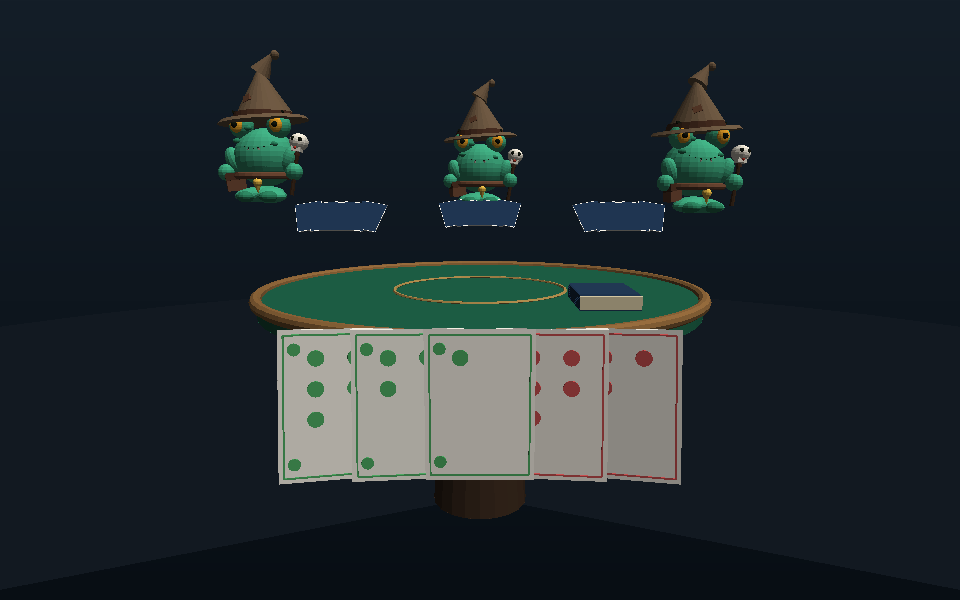
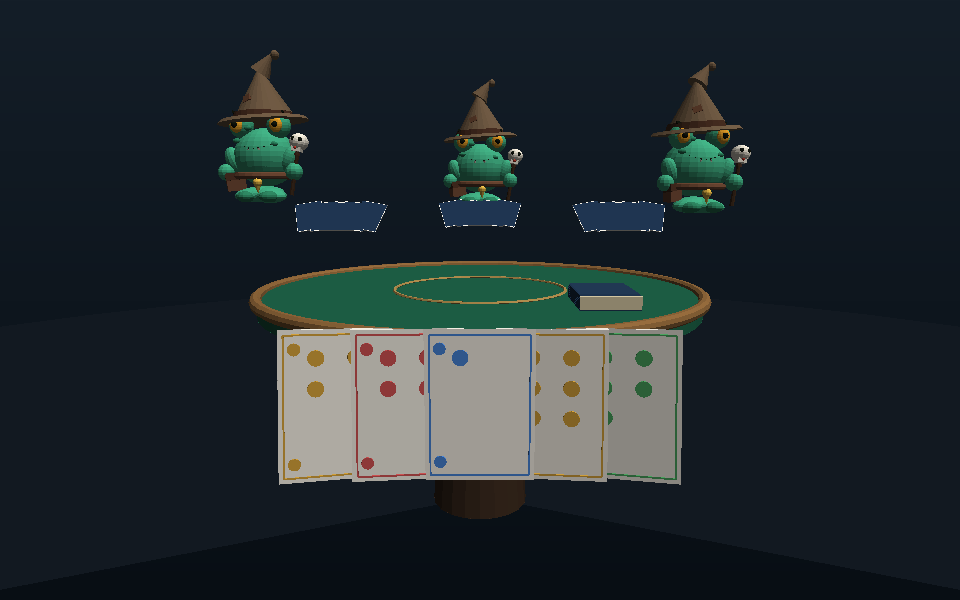
WebGL yoksa anlasilir uyari + yukleniyor katmani; onizleme araci mutlak yol kabul ediyor

diff --git a/game.js b/game.js
@@ -49,7 +49,25 @@ var SEAT_NAMES = ["Sen", "Mira", "Kara", "Tilki"];
 
 
 /* ------------------------------ sahne ------------------------------- */
-var renderer = new THREE.WebGLRenderer({ antialias: true, alpha: false });
+var GL_OK = true;
+var renderer;
+try {
+  renderer = new THREE.WebGLRenderer({ antialias: true, alpha: false });
+} catch (eRender) {
+  GL_OK = false;
+  renderer = null;
+}
+if (!renderer) {
+  /* WebGL yok: oyun mantığı çalışsın, ekranda uyarı gösterelim */
+  renderer = {
+    domElement: (typeof document !== "undefined" && document.createElement)
+      ? document.createElement("canvas")
+      : { style: {}, addEventListener: function () {} },
+    setPixelRatio: function () {},
+    setSize: function () {},
+    render: function () {}
+  };
+}
 renderer.setPixelRatio(Math.min(num(typeof devicePixelRatio === "number" ? devicePixelRatio : 1, 1), 2));
 renderer.setSize(num(typeof innerWidth === "number" ? innerWidth : 0, 1280), num(typeof innerHeight === "number" ? innerHeight : 0, 720));
 if (typeof document !== "undefined" && document && document.body && document.body.appendChild) {
@@ -999,6 +1017,14 @@ function boot() {
     renderer.domElement.addEventListener("pointerdown", onPointerDown);
     addEventListener("keydown", onKeyDown);
   }
+  if (!GL_OK) {
+    var uy = el("webgl-uyari");
+    if (uy) { uy.style.display = "block"; }
+    var m = el("msg");
+    if (m) m.textContent = "Tarayıcın WebGL açamadı — donanım hızlandırmayı açıp yenile.";
+  }
+  var yuk = el("yukleniyor");
+  if (yuk && yuk.style) yuk.style.display = "none";
   if (REAL_CANVAS) {
     start(2);
     show("how", true);

diff --git a/index.html b/index.html
@@ -62,6 +62,20 @@
   }
   #deckCount { position: fixed; left: 14px; bottom: 96px; font-size: 12px; color: var(--muted); }
 
+  #yukleniyor {
+    position: fixed; left: 50%; top: 50%; transform: translate(-50%, -50%);
+    font-size: 14px; letter-spacing: .5px; color: var(--gold);
+    background: var(--panel); border: 1px solid rgba(230, 189, 99, .3);
+    border-radius: 999px; padding: 10px 22px; z-index: 25; pointer-events: none;
+  }
+  #webgl-uyari {
+    display: none; position: fixed; left: 50%; top: 64px; transform: translateX(-50%);
+    max-width: 520px; text-align: center; font-size: 13px; line-height: 1.5;
+    color: #ffd7a8; background: rgba(70, 26, 12, .92);
+    border: 1px solid rgba(255, 170, 90, .5); border-radius: 10px;
+    padding: 10px 16px; z-index: 30;
+  }
+
   #how {
     position: fixed; inset: 0; display: flex; align-items: center; justify-content: center;
     background: rgba(4, 8, 12, .78); backdrop-filter: blur(3px); z-index: 20; padding: 20px;
@@ -85,6 +99,8 @@
 
 <div id="topbar"><div id="seats"></div></div>
 <div id="turn">Sıra sende</div>
+<div id="yukleniyor">Yükleniyor…</div>
+<div id="webgl-uyari">WebGL başlatılamadı. Chrome/Edge/Firefox'ta “donanım hızlandırma”yı açıp sayfayı yenile.</div>
 
 <div id="hud">
   <div id="msg">Yeni el dağıtıldı.</div>

diff --git a/tools/preview.js b/tools/preview.js
@@ -42,7 +42,8 @@ const I = fn(THREE, doc, {}, () => 0, () => {}, (f) => { LOOP = f; }, W, H, 1, (
   { now: () => clock }, { protocol: "file:", origin: "null", search: "" }, URLSearchParams, undefined, undefined, []);
 
 const seatCount = parseInt(process.argv[2] || "4", 10);
-const outFile = path.join(root, process.argv[3] || "preview.png");
+const outArg = process.argv[3] || "preview.png";
+const outFile = path.isAbsolute(outArg) ? outArg : path.join(root, outArg);
 const mode = process.argv[4] || "";
 
 I.start(seatCount);
